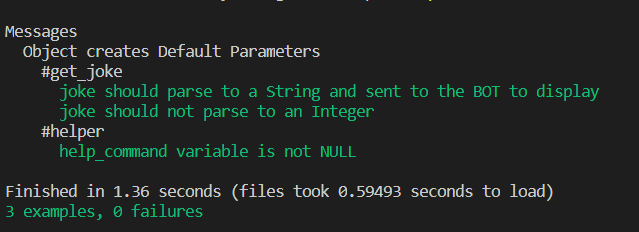
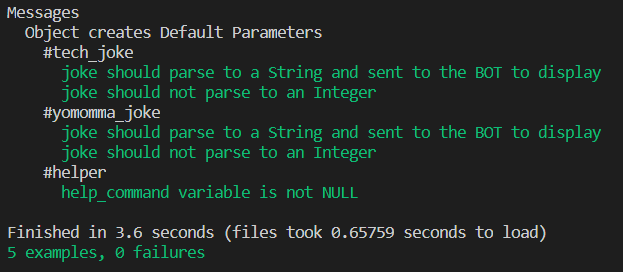
FIX: Review Changes & Feedback ADD: 1 commands REFACTOR: OOP Parameters pending BUG: Fixed issue in dotenv and put explicit token for now RSPEC: 2 tests added for new Command #method

Changed region(s): [[0.0, 0.0302, 0.9759, 0.7543], [0.0, 0.7845, 0.8844, 0.9655]]

diff --git a/spec/messages_spec.rb b/spec/messages_spec.rb
@@ -1,24 +1,34 @@
 # spec/messages_spec.rb
-require 'rspec'
-require_relative '../bin/messages'
+require_relative '../lib/messages'
 
 describe Messages do
-  # let(:test_commands) { Messages.new }
+  let(:test_commands) { Messages.new }
   context 'Object creates Default Parameters' do
-    describe '#get_joke' do
+    describe '#tech_joke' do
       s = "\nQ. Why couldn't the developer pull the weeds from the garden?\nA. They didn't have root access."
       it 'joke should parse to a String and sent to the BOT to display' do
-        expect(Messages.get_joke.class).to eq(s.class)
+        expect(test_commands.tech_joke.class).to eq(s.class)
       end
 
       it 'joke should not parse to an Integer' do
-        expect(Messages.get_joke.class).not_to eq(Integer)
+        expect(test_commands.tech_joke.class).not_to eq(Integer)
+      end
+    end
+
+    describe '#yomomma_joke' do
+      s = 'Yo mama so fat, her stomach gets home 15 minutes before she does.'
+      it 'joke should parse to a String and sent to the BOT to display' do
+        expect(test_commands.yomomma_joke.class).to eq(s.class)
+      end
+
+      it 'joke should not parse to an Integer' do
+        expect(test_commands.yomomma_joke.class).not_to eq(Integer)
       end
     end
 
     describe '#helper' do
       it 'help_command variable is not NULL' do
-        expect(Messages.helper).not_to eq(nil)
+        expect(test_commands.helper).not_to eq(nil)
       end
     end
   end

diff --git a/lib/bot.rb b/lib/bot.rb
@@ -1,0 +1,27 @@
+require 'telegram/bot'
+TELEGRAM_TOKEN = '1617151626:AAGz2rYIRynggn0Jm7pdzj1K2T38luo83pg'.freeze
+class MicronautBot
+  def initialize
+    commands = Messages.new
+    Telegram::Bot::Client.run(TELEGRAM_TOKEN) do |bot|
+      bot.listen do |message|
+        case message.text
+        # when '/headlines'
+        #   bot.api.send_message(chat_id: message.chat.id, text: commands.get_headlines)
+        when '/joke'
+          bot.api.send_message(chat_id: message.chat.id, text: commands.tech_joke)
+        when '/yomomma'
+          bot.api.send_message(chat_id: message.chat.id, text: commands.yomomma_joke)
+        when '/end'
+          bot.api.send_message(chat_id: message.chat.id, text: "Bye, #{message.from.first_name}!")
+        when '/help'
+          bot.api.send_message(chat_id: message.chat.id, text: "Hello, #{message.from.first_name}!")
+          bot.api.send_message(chat_id: message.chat.id, text: commands.helper)
+        else
+          bot.api.send_message(chat_id: message.chat.id, text: "Excuse Me! #{message.from.first_name}!")
+          bot.api.send_message(chat_id: message.chat.id, text: '/help Can Really `Help` You...')
+        end
+      end
+    end
+  end
+end

diff --git a/lib/messages.rb b/lib/messages.rb
@@ -1,0 +1,35 @@
+require 'nokogiri'
+require 'open-uri'
+
+class Messages
+  def helper
+    "List of Commands: \n "\
+          "/help : How in the world would I know what you eat?\n"\
+          "/joke : Get me a Rib Tickler.\n"\
+          "/yomomma : YO MOMMA!... Click me to know more.\n"\
+    '/end : Sad to see you leave, back to work.'
+    # '/headlines : Top News Headlines from The BBC'\
+  end
+
+  def tech_joke
+    # Fetch and parse HTML document
+    doc = Nokogiri::HTML(URI.open('https://readme-jokes.vercel.app/api'))
+    # Search for nodes by css
+    s = ''
+    doc.css('text', 'p').each do |link|
+      s += "\n #{link.content}"
+    end
+    s
+  end
+
+  def yomomma_joke
+    # Fetch and parse HTML document
+    s = []
+    URI.open('http://api.yomomma.info/') do |f|
+      f.each_line do |line|
+        s = line.split(':')
+      end
+    end
+    (s[1].delete ':{\"}\"').to_s
+  end
+end

diff --git a/bin/main.rb b/bin/main.rb
@@ -1,0 +1,8 @@
+require_relative '../lib/Messages'
+require_relative '../lib/Bot'
+
+(1..3).each { puts '.'; sleep 0.5 }
+puts 'WOOHOO!!! BOT is Running... - Catch it with commands on Telegram here... http://t.me/smy5152_bot'
+(1..5).each { puts '.'; sleep 0.5 }
+
+MicronautBot.new

diff --git a/README.md b/README.md
@@ -12,7 +12,7 @@ I have delayed building a BOT for fun from a while and finally got around gettin
 
 ### The Telegram-bot live link
 
-- Click the link and it will launch The bot in your Desktop Telegram [MicronautBot](t.me/smy5152_bot)
+- Click the link and it will launch The bot in your Desktop Telegram [MicronautBot](http://t.me/smy5152_bot)
 - Search for `MicronautBot` & select the Bot with a Picture of the Sun Shining Bright ![screenshot](./images/search-bot-name.PNG)
 
 ### USAGE - INSTRUCTIONS or COMMANDS
@@ -21,6 +21,8 @@ I have delayed building a BOT for fun from a while and finally got around gettin
 - ![screenshot](./images/welcome-message-default.PNG)
 - /joke : Gets a random programmer interpretable funny streak to make you smile (I hope...)
 - ![screenshot](./images/joke-requested.PNG)
+- /yomomma : Gets a random YO MOMMA!... (joke not the momma...) to make you smile.
+- ![screenshot](./images/joke-requested-2.PNG)
 - /end : It stops the bot and says "Bye!".
 
 ## IMPLEMENTATION OF A TELEGRAM BOT in RUBY
@@ -71,14 +73,16 @@ I have delayed building a BOT for fun from a while and finally got around gettin
   - Start a new Terminal [CMD from Run/Search on Windows]
   - Clone/Download .zip repo to an easily accesible location by terminal
   - Go to the directory: `cd Micronaut-bot`
-  - $user-1@[...] `.\main.rb`
+  - $user-1@[..\bin>] `.\main.rb`
   - Hit Enter/Return and your BOT is live...
   - Continue the below steps to add and USE the telegram bot service
-- `.\main.rb` - the entry point file is a command line executable
+- `cd bin` `.\main.rb` - the entry point file is a command line executable
 - Alternatively: Run `ruby main.rb` to start the bot.
 
 ### 5- RSPEC Tests
-
+- #### STEPS TO RUN RSPEC FILE
+- `cd spec`
+- `rspec ./messages_spec.rb`
 - ![screenshot](./images/rspec-0.1.PNG)
 
 ## Learning Goals:
@@ -105,6 +109,7 @@ Give a ⭐ if you like this project!
 
 - [Microverse](http://bit.ly/fullstackdev-free)
 - [JOKES-API](https://readme-jokes.vercel.app/api)
+- [YO MOMMA](http://api.yomomma.info/)
 
 ## Contributing
 
